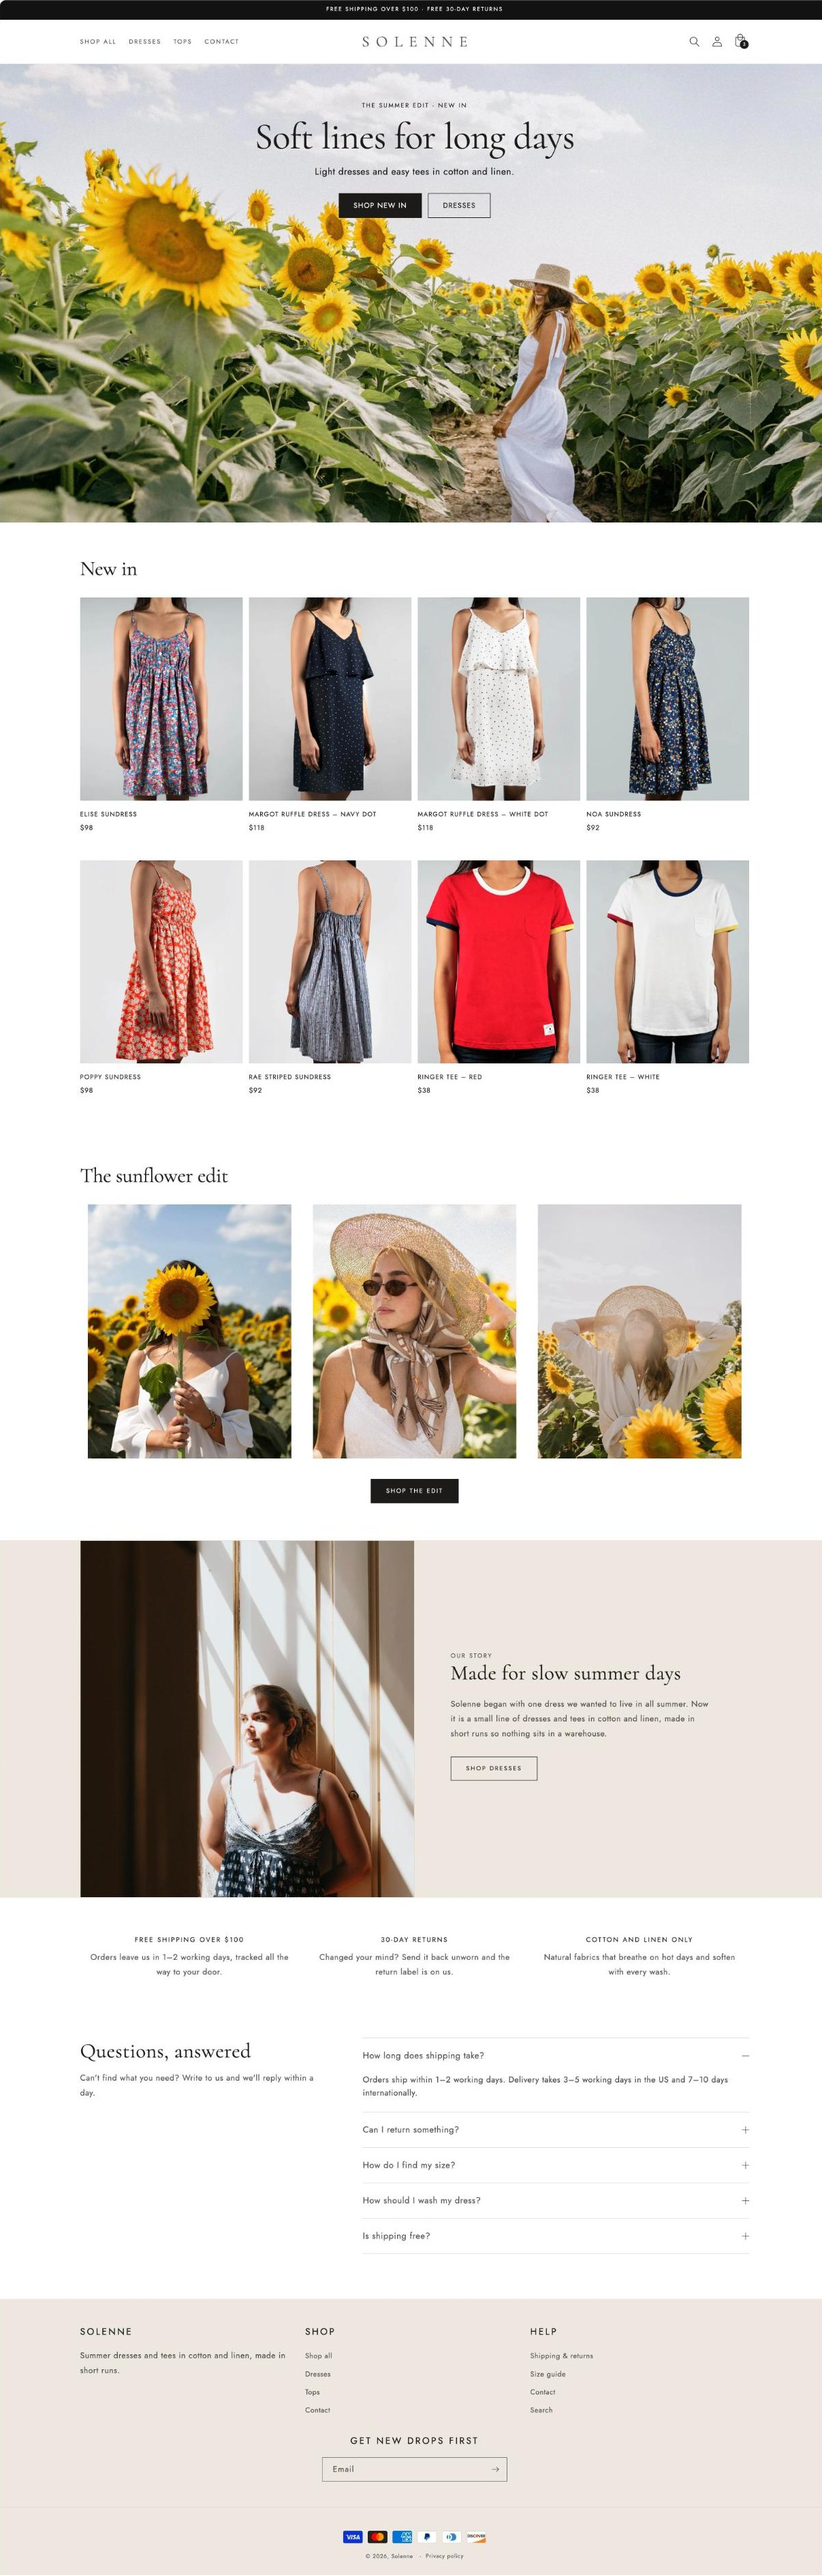
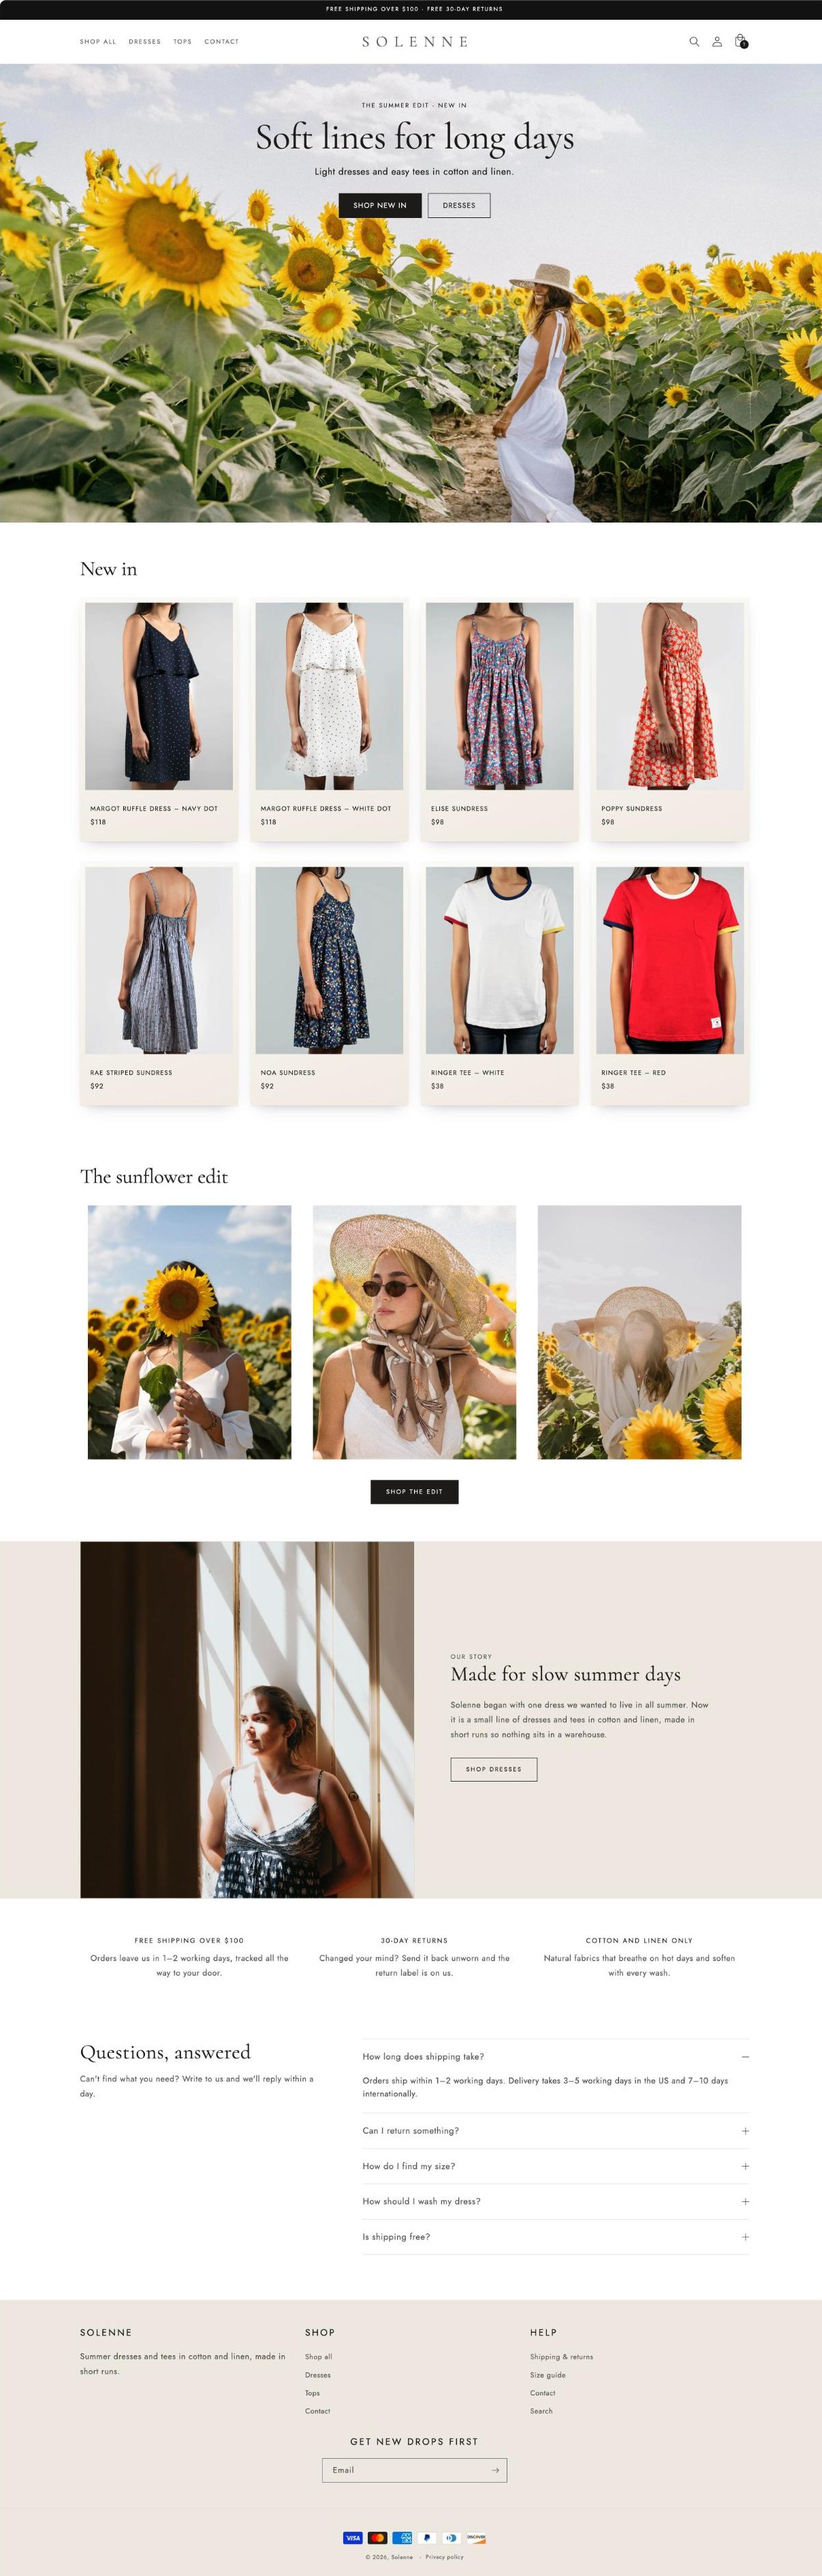
Shopify demo: product cards with depth and a catalog screenshot
Product cards now use Dawn's Card style with a linen mount, a soft
layered shadow and a small lift on hover; even card heights on phones,
wider grid gaps, uppercase filter labels. New catalog image (desktop
and phone) and a re-shot home page.

Claude-Session: https://claude.ai/code/session_01FZvhtAYuoav6hM9DCPM7bq

Changed region(s): [[0.092, 0.2185, 0.9196, 0.437], [0.3985, 0.4683, 0.4598, 0.4995], [0.6744, 0.5307, 0.7051, 0.5619]]

diff --git a/07-shopify-sections/store/solenne-brand.css b/07-shopify-sections/store/solenne-brand.css
@@ -148,3 +148,63 @@
   line-height: 1.5;
   text-transform: uppercase;
 }
+
+/*
+  Product cards: each photo sits in a linen mount with a soft shadow and lifts a little on hover.
+  Theme settings → Product cards: style "Card", image padding 10 px, colour scheme 1.
+*/
+.product-grid {
+  --grid-desktop-horizontal-spacing: 24px;
+  --grid-desktop-vertical-spacing: 40px;
+  --grid-mobile-horizontal-spacing: 10px;
+  --grid-mobile-vertical-spacing: 20px;
+}
+
+.product-card-wrapper .card--standard .card__inner,
+.product-card-wrapper .card--card {
+  transform: translateY(0);
+  box-shadow: 0 1px 2px rgba(28, 27, 25, 0.06), 0 12px 28px -14px rgba(28, 27, 25, 0.32);
+  transition: transform 0.6s cubic-bezier(0.2, 0.7, 0.2, 1), box-shadow 0.6s cubic-bezier(0.2, 0.7, 0.2, 1);
+}
+
+.product-card-wrapper .card--card {
+  background: linear-gradient(160deg, #fcfaf7 0%, #f0eae1 100%);
+}
+
+@media screen and (min-width: 990px) {
+  .product-card-wrapper:hover .card--standard .card__inner,
+  .product-card-wrapper:hover .card--card {
+    transform: translateY(-6px);
+    box-shadow: 0 2px 4px rgba(28, 27, 25, 0.06), 0 28px 44px -22px rgba(28, 27, 25, 0.45);
+  }
+}
+
+@media screen and (max-width: 749px) {
+  .product-card-wrapper .card--standard .card__inner,
+  .product-card-wrapper .card--card {
+    box-shadow: 0 1px 2px rgba(28, 27, 25, 0.06), 0 8px 18px -10px rgba(28, 27, 25, 0.3);
+  }
+
+  .product-card-wrapper .card {
+    --image-padding: 0.6rem;
+  }
+
+  /* Two lines for every name, so the cards in a row end at the same height */
+  .product-card-wrapper .card__heading {
+    min-height: 3em;
+    font-size: 1.1rem;
+    letter-spacing: 0.06em;
+  }
+}
+
+/* Catalog toolbar: filter and sort labels as small uppercase text */
+body .facets__heading,
+body .facets__summary,
+body .facet-filters__label,
+body .facet-filters__sort,
+body .product-count__text,
+body .mobile-facets__open-label {
+  font-size: 1.1rem;
+  letter-spacing: 0.16em;
+  text-transform: uppercase;
+}

diff --git a/07-shopify-sections/README.md b/07-shopify-sections/README.md
@@ -40,9 +40,11 @@ Three custom Online Store 2.0 sections for **Solenne**, a fictional summer cloth
 
 ## The store around the sections
 
-The demo store is password-protected, so here is the whole home page and a product page. Everything around the three sections is Dawn's own sections and settings (lookbook, story block, size, fabric and shipping tabs on the product page), plus one small stylesheet for the brand look: `store/solenne-brand.css` (the wordmark, small uppercase labels, product cards, a phone fix for the header).
+The demo store is password-protected, so here is the whole home page, the catalog and a product page. Everything around the three sections is Dawn's own sections and settings (lookbook, story block, size, fabric and shipping tabs on the product page), plus one small stylesheet for the brand look: `store/solenne-brand.css` (the wordmark, small uppercase labels, product cards in a linen mount with a soft shadow that lifts on hover, a phone fix for the header).
 
 ![Home page of the demo store](screenshots/store-home.jpg)
+
+![Catalog on desktop and phone](screenshots/catalog.jpg)
 
 ![Product page](screenshots/product-page.jpg)
 
